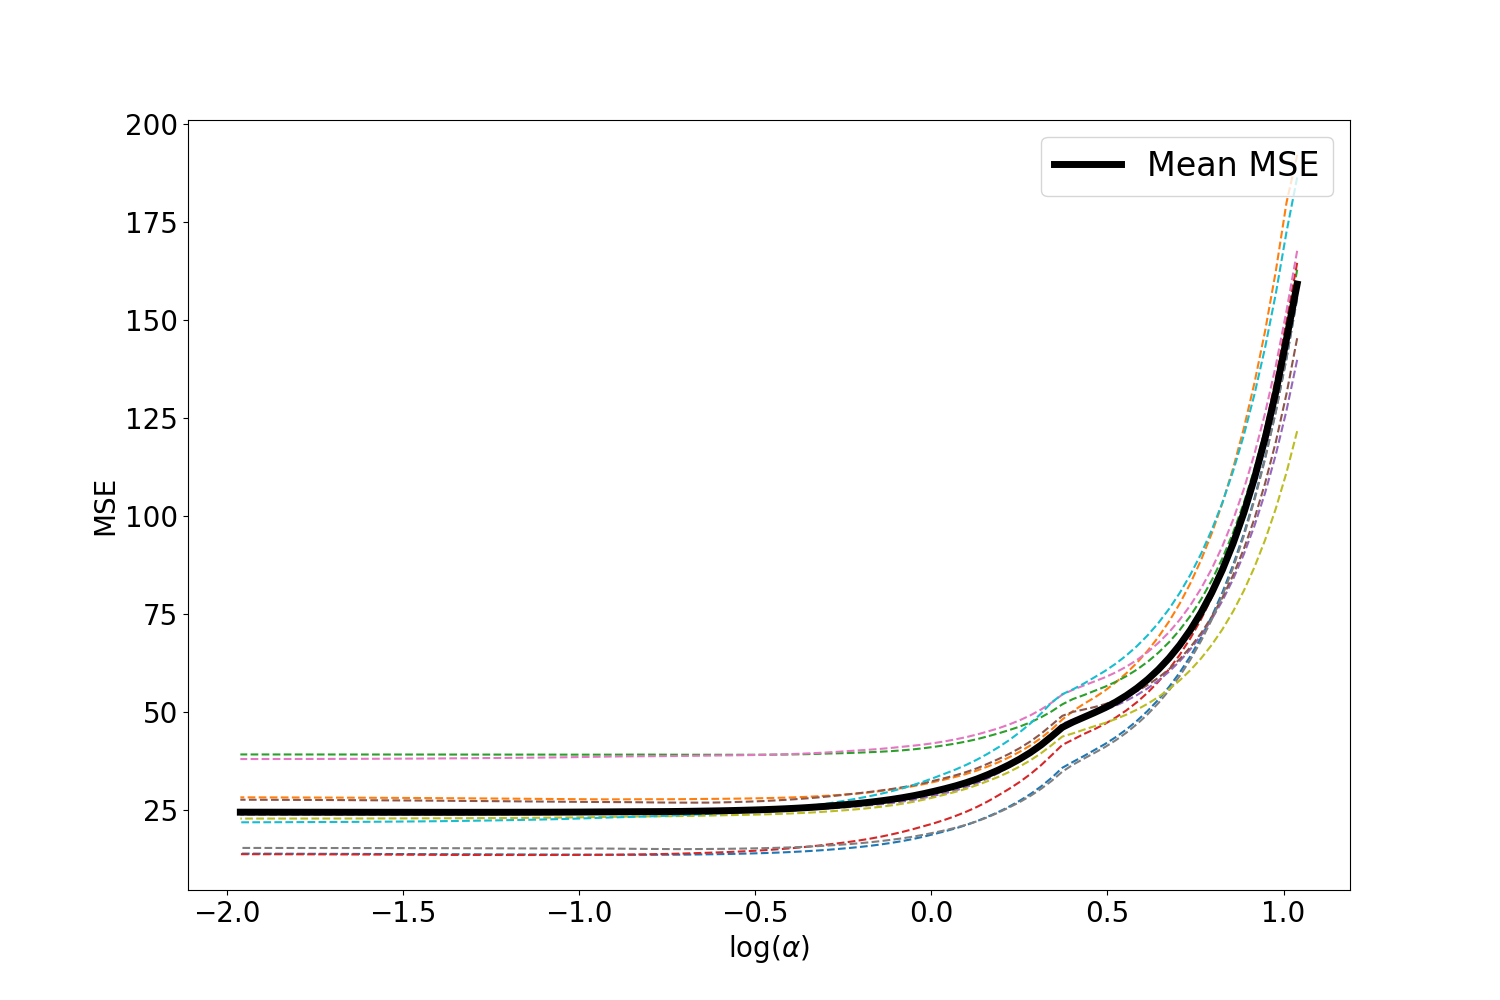
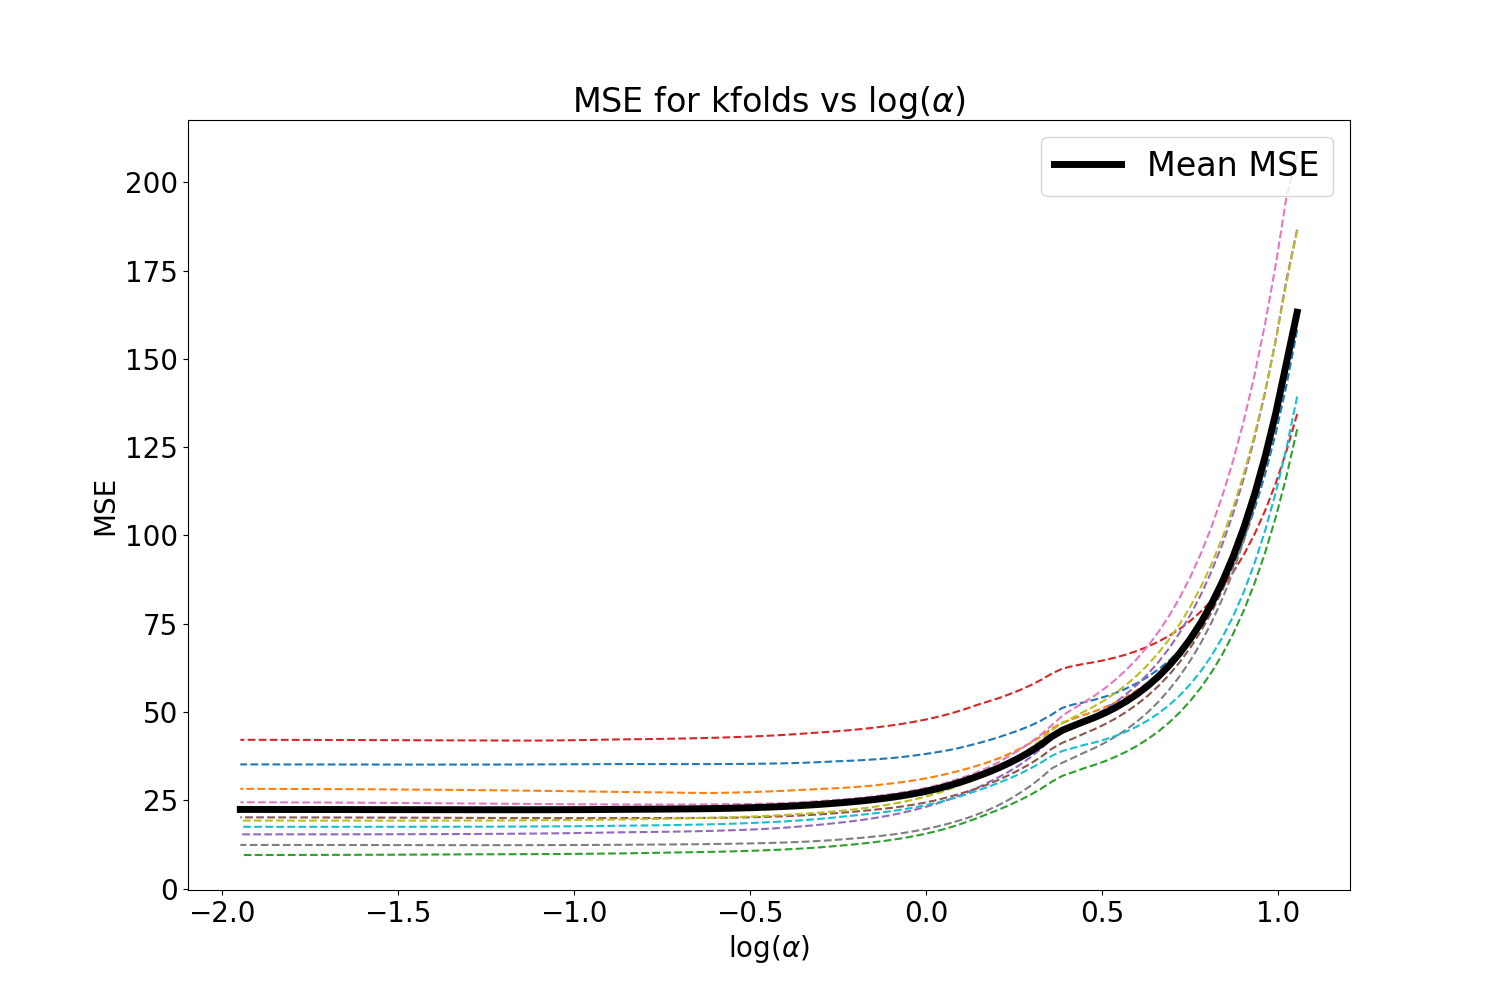
Finalizing plots

diff --git a/src/PIRUS_Logistic.py b/src/PIRUS_Logistic.py
@@ -8,11 +8,12 @@ import statsmodels.api as sm
 from sklearn.linear_model import Lasso, LassoCV, ElasticNetCV, LogisticRegressionCV, LogisticRegression
 from sklearn.model_selection import train_test_split, GridSearchCV, KFold
 from sklearn.svm import l1_min_c
-from sklearn.metrics import roc_curve
+from sklearn.metrics import roc_curve,auc
 from statsmodels.stats import outliers_influence, diagnostic
+from fancyimpute import SimpleFill, KNN, IterativeSVD, MatrixFactorization
 import matplotlib as mpl
 mpl.rcParams.update({
-    'figure.figsize'      : (15,15),
+    'figure.figsize'      : (15,10),
     'font.size'           : 20.0,
     'axes.titlesize'      : 'large',
     'axes.labelsize'      : 'medium',
@@ -39,30 +40,20 @@ class LogisticModel(Data):
         self.Cs = self.model.Cs_
         self.log_Cs = np.log10(self.Cs)
 
-    def clean_split_fit(self):
-        self.prep_data()
+    def clean_split_fit(self,impute=KNN(5)):
+        self.prep_data(impute)
         self.fit_model()
         self.get_Cs()
 
     def plot_coef_log_alphas(self):
         plt.plot(self.log_Cs, self.model.coefs_paths_[1][1])
-        # coeffs = self.model.coefs_paths_.values
         plt.axvline(np.log10(self.model.C_),linestyle='--')
-        plt.title(f'{self.name} Path')
+        plt.title(f'Coefficient Descent of {self.name}')
         plt.xlabel('log(C)')
         plt.ylabel('Coefficients')
+        line_names = np.append(['Intercept'],self.X.columns.values)
+        plt.legend(np.append(line_names,['Chosen C']), fontsize = 'x-small',loc='upper right')
         plt.savefig(f'../plots/{self.name}_{self.predict}_coefficient_descent.png')
-
-    def plot_mse(self):
-        mse_path = self.model.mse_path_
-        mean_mse = mse_path.mean(axis=1)
-        plt.plot(self.log_alphas,mse_path,linestyle='--')
-        plt.plot(self.log_alphas,mean_mse,label='Mean MSE',linewidth=5,color='k')
-        plt.title(r'MSE vs log($\alpha$)')
-        plt.xlabel(r'log($\alpha$)')
-        plt.ylabel('MSE')
-        plt.legend()
-        plt.savefig(f'../plots/{self.name}_{self.predict}_MSE_plot.png')
 
     def plot_scores_kfold(self):
         logistic = LogisticRegression(penalty='l1', solver='saga', random_state=0)
@@ -76,31 +67,27 @@ class LogisticModel(Data):
         scores_std = clf.cv_results_['std_test_score']
         plt.semilogx(Cs, scores)
 
-        # plot error lines showing +/- std. errors of the scores
         std_error = scores_std / np.sqrt(10)
-
         plt.semilogx(Cs, scores + std_error, 'b--')
         plt.semilogx(Cs, scores - std_error, 'b--')
         plt.fill_between(Cs, scores + std_error, scores - std_error, alpha=0.2)
 
-        plt.ylabel('CV score +/- std error')
+        plt.title('CV score +/- std error')
+        plt.ylabel('Score')
         plt.xlabel('Cs')
         plt.axhline(np.max(scores), linestyle='--', color='.5')
-        # plt.xlim([alphas[0], alphas[-1]])
         plt.savefig(f'../plots/{self.name}_{self.predict}_kfold_mean_scores.png')
 
     def plot_ROC(self):
-        # fpr,tpr = roc_curve(self.y_train,self.model.scores_[1])
-        y_prob = self.model.predict_proba(self.X_train)[:,1]
-        import pdb; pdb.set_trace()
-        fpr, tpr, _ = roc_curve(self.y_train,y_prob)
-        plt.plot(fpr, tpr, color='darkorange', label='ROC curve')
+        y_prob = self.model.predict_proba(self.X_test)[:,1]
+        fpr, tpr, _ = roc_curve(self.y_test,y_prob)
+        roc_auc = auc(fpr,tpr)
+        plt.plot(fpr, tpr, color='darkorange', label=f'ROC curve (AUC: {round(roc_auc,2)})')
         plt.plot([0, 1], [0, 1], color='navy', linestyle='--')
-        # plt.xlim([0.0, 1.0])
-        # plt.ylim([0.0, 1.05])
         plt.xlabel('False Positive Rate')
         plt.ylabel('True Positive Rate')
         plt.title('ROC Curve')
+        plt.legend(loc="lower right")
         plt.savefig(f'../plots/{self.name}_{self.predict}_ROC_curve')
 
     def print_score(self,test_train='Train'):
@@ -109,6 +96,7 @@ class LogisticModel(Data):
         else:
             score = self.model.score(self.X_train,self.y_train)
         print(f"{test_train} Score: {score}")
+        return score
 
     def print_vifs(self):
         for idx, col in enumerate(self.X_train.columns):
@@ -118,21 +106,28 @@ class LogisticModel(Data):
         for idx, col in enumerate(self.X_train.columns):
             print(f"{col}: {self.model.coef_[idx]}")
 
-    def print_linear_summary(self):
+    def print_logistic_summary(self):
         logistic_model = sm.Logit(self.y_train, self.X_train).fit()
         print(logistic_model.summary2())
+
+    def try_imputes_scores(self):
+        methods = [SimpleFill(), KNN(1), KNN(2), KNN(3), KNN(4), KNN(5), IterativeSVD(), MatrixFactorization()]
+        impute_scores = []
+        for m in methods:
+            self.clean_split_fit(m)
+            impute_scores += [(m.__class__.__name__,self.print_score(),self.print_score('Test'))]
+        with open(f"../data/{self.name}_impute_scores.txt", "w") as text_file:
+            [print(f'{_[0]}, {_[1]}, {_[2]}',file=text_file) for _ in impute_scores]
+        return impute_scores
 
 if __name__ == '__main__':
     df = pd.read_csv('../data/PIRUS.csv',na_values=['-99'])
     PIRUS = LogisticModel(df, LogisticRegressionCV(penalty='l1',cv=10,solver='saga'), 'Violent','LogisticRegression')
     PIRUS.clean_split_fit()
-    # PIRUS.try_many_imputes()
-    PIRUS.print_score()
-    PIRUS.print_score('Test')
-    # PIRUS.plot_coef_log_alphas()
-    # plt.show()
-    # PIRUS.plot_scores_kfold()
-    # plt.show()
-    # PIRUS.plot_mse()
-    # plt.show()
+    # PIRUS.print_score()
+    # PIRUS.print_score('Test')
+    PIRUS.plot_coef_log_alphas()
+    plt.close()
+    PIRUS.plot_scores_kfold()
+    plt.close()
     PIRUS.plot_ROC()

diff --git a/src/PIRUS_Linear.py b/src/PIRUS_Linear.py
@@ -49,6 +49,7 @@ class LinearModel(Data):
         plt.title(f'Coefficient Descent of {self.name}')
         plt.xlabel(r'log($\alpha$)')
         plt.ylabel('Coefficients')
+        plt.legend(np.append(self.X.columns.values,['Chosen Alpha']), fontsize = 'x-small',loc='upper left')
         plt.savefig(f'../plots/{self.name}_{self.predict}_coefficient_descent.png')
 
     def plot_mse(self):
@@ -56,7 +57,7 @@ class LinearModel(Data):
         mean_mse = mse_path.mean(axis=1)
         plt.plot(self.log_alphas,mse_path,linestyle='--')
         plt.plot(self.log_alphas,mean_mse,label='Mean MSE',linewidth=5,color='k')
-        # plt.title(r'MSE vs log($\alpha$)')
+        plt.title(r'MSE for kfolds vs log($\alpha$)')
         plt.xlabel(r'log($\alpha$)')
         plt.ylabel('MSE')
         plt.legend()
@@ -67,27 +68,22 @@ class LinearModel(Data):
         alphas = np.logspace(-4, -0.5, 30)
 
         tuned_parameters = [{'alpha': alphas}]
-        n_folds = 5
 
-        clf = GridSearchCV(lasso, tuned_parameters, cv=n_folds, refit=False)
+        clf = GridSearchCV(lasso, tuned_parameters, cv=10, refit=False)
         clf.fit(self.X_train, self.y_train)
         scores = clf.cv_results_['mean_test_score']
         scores_std = clf.cv_results_['std_test_score']
         plt.semilogx(alphas, scores)
 
-        # plot error lines showing +/- std. errors of the scores
-        std_error = scores_std / np.sqrt(n_folds)
-
+        std_error = scores_std / np.sqrt(10)
         plt.semilogx(alphas, scores + std_error, 'b--')
         plt.semilogx(alphas, scores - std_error, 'b--')
-
-        # alpha=0.2 controls the translucency of the fill color
         plt.fill_between(alphas, scores + std_error, scores - std_error, alpha=0.2)
 
-        plt.ylabel('CV score +/- std error')
+        plt.title('CV score +/- std error')
+        plt.ylabel('Score')
         plt.xlabel(r'$\alpha$')
         plt.axhline(np.max(scores), linestyle='--', color='.5')
-        plt.xlim([alphas[0], alphas[-1]])
         plt.savefig(f'../plots/{self.name}_{self.predict}_kfold_mean_scores.png')
 
     def print_score(self,test_train='Train'):
@@ -113,24 +109,34 @@ class LinearModel(Data):
         linear_model = sm.OLS(self.y_train, self.X_train).fit()
         print(linear_model.summary2())
 
+    def try_imputes_scores(self):
+        methods = [SimpleFill(), KNN(1), KNN(2), KNN(3), KNN(4), KNN(5), IterativeSVD(), MatrixFactorization()]
+        impute_scores = []
+        for m in methods:
+            self.clean_split_fit(m)
+            impute_scores += [(m.__class__.__name__,self.print_score(),self.print_score('Test'))]
+        with open(f"../data/{self.name}_impute_scores.txt", "w") as text_file:
+            [print(f'{_[0]}, {_[1]}, {_[2]}',file=text_file) for _ in impute_scores]
+        return impute_scores
+
 if __name__ == '__main__':
     df = pd.read_csv('../data/PIRUS.csv',na_values=['-99'])
     PIRUS_Lasso = LinearModel(df, LassoCV(cv=10), 'Violent','Lasso')
-    # PIRUS_Elastic = LinearModel(df, ElasticNetCV(cv=10), 'Violent','ElasticNet')
+    PIRUS_Elastic = LinearModel(df, ElasticNetCV(cv=10), 'Violent','ElasticNet')
     PIRUS_Lasso.clean_split_fit()
-    # PIRUS_Elastic.clean_split_fit()
+    PIRUS_Elastic.clean_split_fit()
     PIRUS_Lasso.print_score()
     PIRUS_Lasso.print_score('Test')
-    # PIRUS_Elastic.print_score()
-    # PIRUS_Elastic.plot_mse()
-    # plt.show()
-    # PIRUS_Elastic.plot_coef_log_alphas()
-    # plt.show()
-    # PIRUS_Elastic.plot_scores_kfold()
-    # plt.show()
-    # PIRUS_Lasso.plot_mse()
-    # plt.show()
-    # PIRUS_Lasso.plot_coef_log_alphas()
-    # plt.show()
-    # PIRUS_Lasso.plot_scores_kfold()
-    # plt.show()
+    PIRUS_Elastic.print_score()
+    PIRUS_Elastic.plot_mse()
+    plt.close()
+    PIRUS_Elastic.plot_coef_log_alphas()
+    plt.close()
+    PIRUS_Elastic.plot_scores_kfold()
+    plt.close()
+    PIRUS_Lasso.plot_mse()
+    plt.close()
+    PIRUS_Lasso.plot_coef_log_alphas()
+    plt.close()
+    PIRUS_Lasso.plot_scores_kfold()
+    plt.close()

diff --git a/src/init_data.py b/src/init_data.py
@@ -5,7 +5,7 @@ import seaborn as sns
 from fancyimpute import SimpleFill, KNN, IterativeSVD, MatrixFactorization
 from imblearn.over_sampling import SMOTE
 from utils import XyScaler
-import statsmodels.api as sm
+from sklearn.metrics import mean_squared_error as mse
 from sklearn.model_selection import train_test_split
 import matplotlib as mpl
 mpl.rcParams.update({
@@ -27,7 +27,6 @@ class Data:
         self.X = None
         self.y = None
         self.X_scale = None
-        self.y_scale = None
         self.X_train = None
         self.X_test = None
         self.y_train = None
@@ -43,36 +42,43 @@ class Data:
         self.df.Language_English.replace({1:2,-88:1})
         self.df[['Education_Change','Change_Performance','Work_History','Social_Stratum_Adulthood']].replace(-88,'NaN')
         self.incomplete_data = self.df[columns].select_dtypes(exclude='object')
-        self.clean_data = self.impute()
-        self.y = self.clean_data[self.predict]
-        self.X = self.clean_data.drop(self.predict,axis=1)
 
     def impute(self,method=KNN(5)):
-        return pd.DataFrame(data=method.fit_transform(self.incomplete_data),
+        self.clean_data = pd.DataFrame(data=method.fit_transform(self.incomplete_data),
                         columns=self.incomplete_data.columns,index=self.incomplete_data.index)
+        return self.clean_data
 
     def try_many_imputes(self):
         methods = [SimpleFill(), KNN(1), KNN(2), KNN(3), KNN(4), KNN(5), IterativeSVD(), MatrixFactorization()]
+        mse_list = []
         for m in methods:
             data = self.impute(m)
-            mse = ((data-self.incomplete_data) ** 2).sum().mean()
-            print(m.__class__.__name__, mse)
+            mse_list += [(f'{m.__class__.__name__}',mse(self.incomplete_data.fillna(0),data))]
+        with open("../data/impute_mse.txt", "w") as text_file:
+            [print(f'{_[0]}, {_[1]}', file=text_file) for _ in mse_list]
+        return mse_list
+
+    def make_Xy(self):
+        self.y = self.clean_data[self.predict]
+        self.X = self.clean_data.drop(self.predict,axis=1)
 
     def scale_data(self):
-        X_scale,y_scale = self.scaler.fit_transform(self.X,self.y)
+        X_scale, _ = self.scaler.fit_transform(self.X,self.y)
         self.X_scale = pd.DataFrame(data=X_scale,columns=self.X.columns,index=self.X.index)
 
     def fix_imbalance(self,method=SMOTE()):
         os = method
         self.X_scale,self.y = os.fit_sample(self.X_scale,self.y)
 
-    def split_data(self,split=0.2):
+    def split_data(self,split=0.25):
         self.X_train, self.X_test, self.y_train, self.y_test = train_test_split(self.X_scale, self.y, test_size=split)
 
-    def prep_data(self):
+    def prep_data(self,impute=KNN(5)):
         self.create_clean_data()
+        self.impute(impute)
+        self.make_Xy()
         self.scale_data()
-        if set(self.df[self.predict]) == {0,1}:
+        if set(self.y) == {0,1}:
             self.fix_imbalance()
         self.split_data()
 
